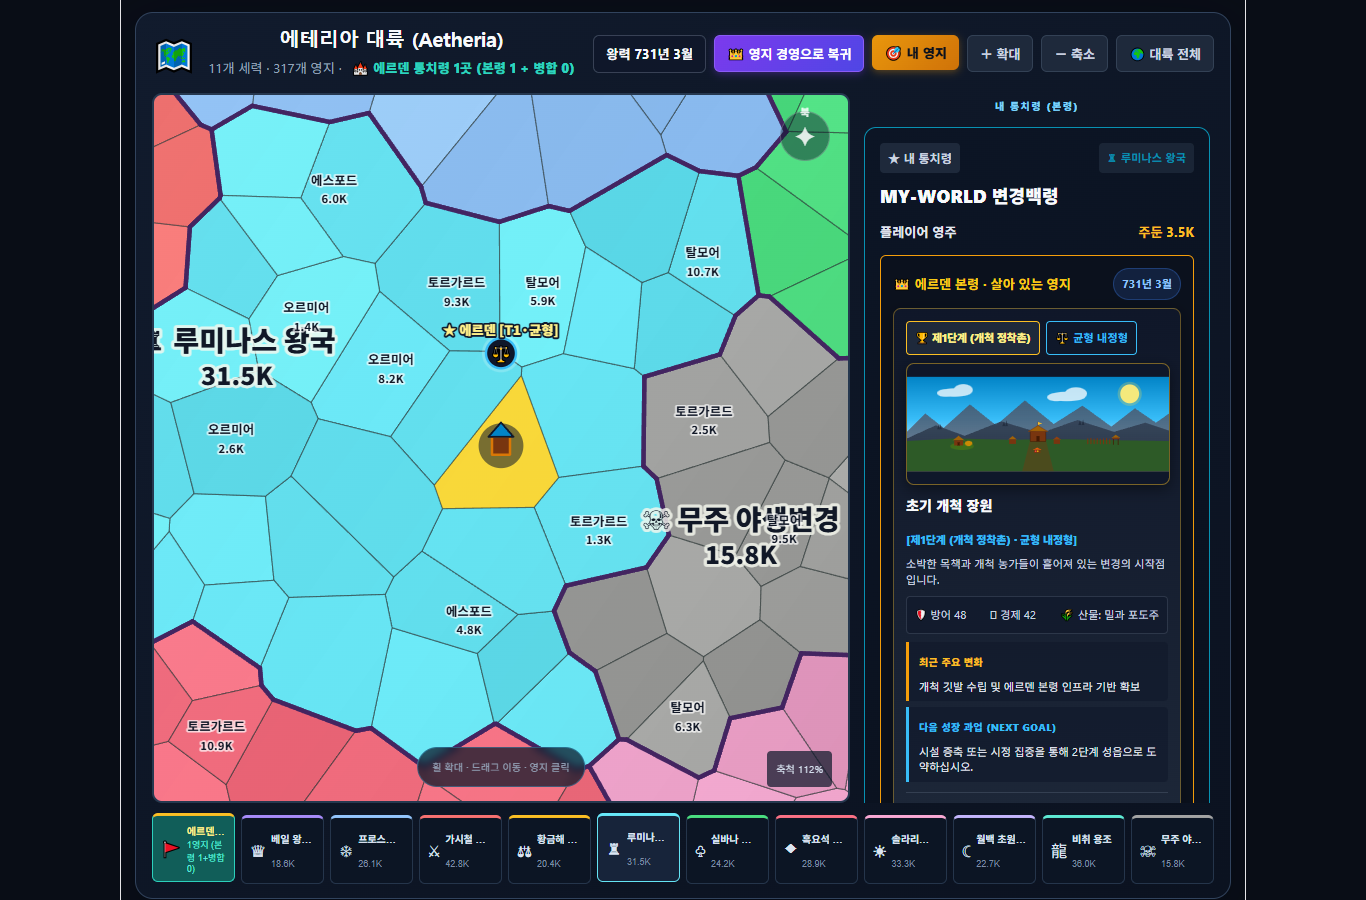
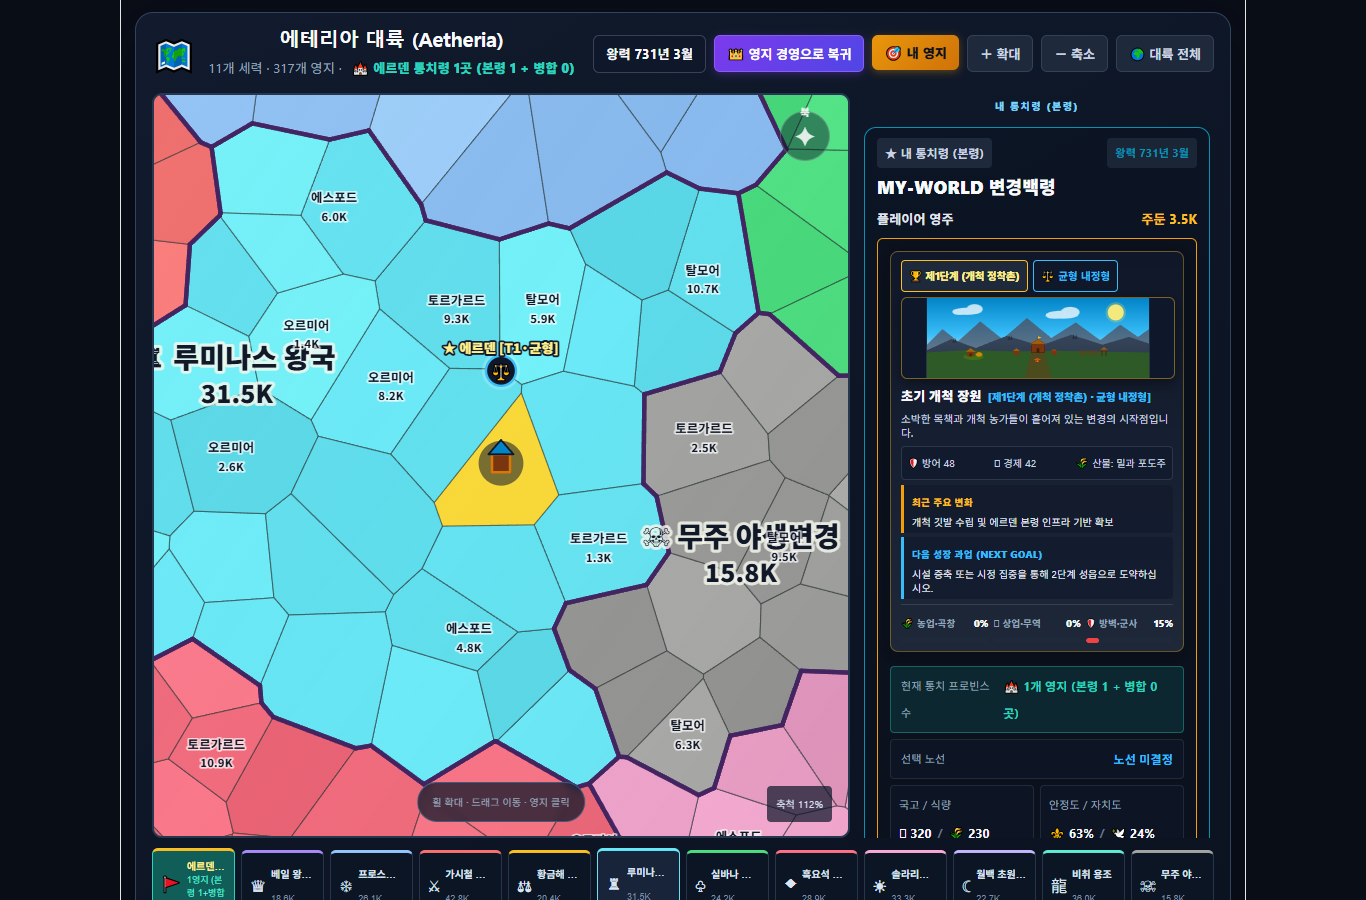
fix(map): compact inspector panel layout and assert unclipped NEXT GOAL card on 1366x900

diff --git a/src/App.css b/src/App.css
@@ -2042,8 +2042,8 @@ body {
 }
 
 .map-canvas-container {
-  height: min(740px, calc(100vh - 190px));
-  min-height: 590px;
+  height: min(760px, calc(100vh - 155px));
+  min-height: 600px;
   background: #2c557f;
   border: 2px solid #26384f;
   border-radius: 10px;
@@ -2054,8 +2054,8 @@ body {
 .map-inspector-panel {
   box-sizing: border-box;
   width: 100%;
-  max-height: min(740px, calc(100vh - 190px));
-  min-height: 590px;
+  max-height: min(760px, calc(100vh - 155px));
+  min-height: 600px;
   padding-right: 4px;
   overflow-y: auto;
   display: flex;
@@ -2130,8 +2130,8 @@ body {
 .fief-detail-card,
 .nation-detail-card {
   background: linear-gradient(150deg, #0c1525 0%, #090f1b 100%);
-  padding: 15px;
-  gap: 10px;
+  padding: 10px 12px;
+  gap: 6px;
 }
 
 .ruler-line {
@@ -6098,26 +6098,26 @@ body {
   background: linear-gradient(180deg, rgba(15, 23, 42, 0.95) 0%, rgba(30, 41, 59, 0.95) 100%);
   border: 1px solid rgba(251, 191, 36, 0.35);
   border-radius: 8px;
-  padding: 12px;
-  margin-bottom: 12px;
+  padding: 8px 10px;
+  margin-bottom: 6px;
   box-shadow: 0 4px 16px rgba(0, 0, 0, 0.3);
 }
 
 .living-realm-badge-row {
   display: flex;
   flex-wrap: wrap;
-  gap: 6px;
+  gap: 5px;
   align-items: center;
-  margin-bottom: 8px;
+  margin-bottom: 5px;
 }
 
 .living-tier-badge {
   background: #1e293b;
   border: 1px solid #fbbf24;
   color: #fef08a;
-  padding: 3px 8px;
+  padding: 2px 7px;
   border-radius: 4px;
-  font-size: 11px;
+  font-size: 10.5px;
   font-weight: 800;
   letter-spacing: -0.02em;
   white-space: nowrap;
@@ -6127,9 +6127,9 @@ body {
   background: rgba(15, 23, 42, 0.85);
   border: 1px solid #38bdf8;
   color: #38bdf8;
-  padding: 3px 8px;
+  padding: 2px 7px;
   border-radius: 4px;
-  font-size: 11px;
+  font-size: 10.5px;
   font-weight: 700;
   white-space: nowrap;
 }
@@ -6138,9 +6138,9 @@ body {
   background: rgba(185, 28, 28, 0.25);
   border: 1px solid #ef4444;
   color: #fca5a5;
-  padding: 3px 8px;
+  padding: 2px 7px;
   border-radius: 4px;
-  font-size: 11px;
+  font-size: 10.5px;
   font-weight: 800;
   white-space: nowrap;
   animation: pulse-border 2s infinite;
@@ -6149,20 +6149,20 @@ body {
 .living-fief-stage-callout {
   display: flex;
   align-items: baseline;
-  gap: 8px;
+  gap: 6px;
   flex-wrap: wrap;
-  margin: 6px 0 3px;
+  margin: 4px 0 2px;
 }
 
 .living-fief-subheading {
-  font-size: 14px;
+  font-size: 13px;
   font-weight: 800;
   color: #f8fafc;
   margin: 0;
 }
 
 .living-fief-spec-tag {
-  font-size: 11px;
+  font-size: 10.5px;
   font-weight: 800;
   letter-spacing: -0.01em;
 }
@@ -6174,25 +6174,25 @@ body {
   background: rgba(15, 23, 42, 0.6);
   border: 1px solid rgba(148, 163, 184, 0.2);
   border-radius: 4px;
-  padding: 5px 8px;
-  font-size: 11px;
+  padding: 3px 6px;
+  font-size: 10px;
   color: #cbd5e1;
-  margin: 6px 0 8px;
+  margin: 3px 0 5px;
 }
 
 .living-fief-summary-p {
-  font-size: 11px;
-  line-height: 1.45;
+  font-size: 10.5px;
+  line-height: 1.35;
   color: #cbd5e1;
-  margin: 0 0 8px 0;
+  margin: 0 0 5px 0;
 }
 
 .living-milestone-box {
   background: rgba(15, 23, 42, 0.6);
   border-left: 3px solid #f59e0b;
-  padding: 7px 10px;
+  padding: 4px 8px;
   border-radius: 0 4px 4px 0;
-  margin-bottom: 6px;
+  margin-bottom: 4px;
 }
 
 .living-milestone-box.target-box {
@@ -6201,11 +6201,11 @@ body {
 
 .milestone-label-row {
   display: flex;
-  margin-bottom: 3px;
+  margin-bottom: 1px;
 }
 
 .milestone-tag {
-  font-size: 10px;
+  font-size: 9.5px;
   font-weight: 800;
   text-transform: uppercase;
   letter-spacing: 0.04em;
@@ -6220,8 +6220,8 @@ body {
 }
 
 .milestone-text {
-  font-size: 11px;
-  line-height: 1.45;
+  font-size: 10px;
+  line-height: 1.35;
   color: #e2e8f0;
   margin: 0;
 }
@@ -6229,22 +6229,22 @@ body {
 .living-sectors-grid {
   display: grid;
   grid-template-columns: repeat(3, 1fr);
-  gap: 6px;
-  margin-top: 10px;
-  padding-top: 8px;
+  gap: 5px;
+  margin-top: 5px;
+  padding-top: 5px;
   border-top: 1px solid rgba(148, 163, 184, 0.2);
 }
 
 .sector-gauge-col {
   display: flex;
   flex-direction: column;
-  gap: 3px;
+  gap: 2px;
 }
 
 .sector-gauge-header {
   display: flex;
   justify-content: space-between;
-  font-size: 10px;
+  font-size: 9.5px;
   color: #94a3b8;
   font-weight: 700;
 }
@@ -6254,7 +6254,7 @@ body {
 }
 
 .sector-track {
-  height: 6px;
+  height: 5px;
   background: rgba(30, 41, 59, 0.9);
   border-radius: 3px;
   overflow: hidden;
@@ -6445,12 +6445,12 @@ body {
 /* Map Panel Mini-Diorama Frame (Synchronized with Map View) */
 .living-fief-diorama-frame {
   width: 100%;
-  height: 120px;
+  height: 80px;
   aspect-ratio: 1000 / 360;
-  border-radius: 8px;
+  border-radius: 6px;
   overflow: hidden;
   border: 1px solid rgba(251, 191, 36, 0.45);
-  margin: 8px 0;
+  margin: 4px 0;
   box-shadow: 0 4px 14px rgba(0, 0, 0, 0.45);
   background: #0f172a;
 }

diff --git a/src/components/WorldMapView.tsx b/src/components/WorldMapView.tsx
@@ -686,10 +686,10 @@ export const WorldMapView: React.FC<WorldMapViewProps> = ({ realm, onReturnToTow
           <div className="fief-detail-card" style={{ borderColor: isSelectedAnnexed ? '#fbbf24' : selectedNation.borderHighlightColor }}>
             <div className="inspector-header">
               <span className={`inspector-badge ${isSelectedAnnexed ? 'badge-annexed' : ''}`}>
-                {selectedProvince.isPlayerFief ? '★ 내 통치령' : isSelectedAnnexed ? '🚩 에르덴 병합령' : selectedNation.typeLabel}
+                {selectedProvince.isPlayerFief ? '★ 내 통치령 (본령)' : isSelectedAnnexed ? '🚩 에르덴 병합령' : selectedNation.typeLabel}
               </span>
               <span className="nation-tag" style={{ color: isSelectedAnnexed ? '#fbbf24' : selectedNation.borderHighlightColor }}>
-                {isSelectedAnnexed ? '🚩 에르덴 통치령' : `${selectedNation.emblem} ${selectedNation.name}`}
+                {selectedProvince.isPlayerFief ? `왕력 ${realmState.year}년 ${realmState.month}월` : (isSelectedAnnexed ? '🚩 에르덴 통치령' : `${selectedNation.emblem} ${selectedNation.name}`)}
               </span>
             </div>
             <h3 className="fief-title">
@@ -714,11 +714,6 @@ export const WorldMapView: React.FC<WorldMapViewProps> = ({ realm, onReturnToTow
             </div>
             {selectedProvince.isPlayerFief ? (
               <div className="player-live-box">
-                <div className="player-live-top-row">
-                  <h4>👑 에르덴 본령 · 살아 있는 영지</h4>
-                  <span className="player-live-date">{realmState.year}년 {realmState.month}월</span>
-                </div>
-
                 {/* Living Realm Growth Card */}
                 <div className="living-realm-summary-card">
                   <div className="living-realm-badge-row">
@@ -761,7 +756,7 @@ export const WorldMapView: React.FC<WorldMapViewProps> = ({ realm, onReturnToTow
                     <p className="milestone-text">{growthAnalysis.recentMilestone}</p>
                   </div>
 
-                  <div className="living-milestone-box target-box">
+                  <div className="living-milestone-box target-box living-next-goal-box">
                     <div className="milestone-label-row">
                       <span className="milestone-tag tag-target">다음 성장 과업 (Next Goal)</span>
                     </div>

diff --git a/scripts/verify-browser-milestone11.ts b/scripts/verify-browser-milestone11.ts
@@ -57,7 +57,7 @@ async function advanceOneMonth(page: Page) {
 /**
  * Capture World Map view of Erden fief and its inspector panel
  */
-async function captureErdenMap(page: Page, savePath: string) {
+async function captureErdenMap(page: Page, savePath: string, assertUnclippedNextGoal: boolean = true) {
   await page.click('button.realm-map-link, button.btn-panorama-map')
   await page.waitForSelector('.world-canvas')
   await page.waitForTimeout(500) // canvas render stabilization
@@ -73,6 +73,30 @@ async function captureErdenMap(page: Page, savePath: string) {
       await legendBtn.click()
       await page.waitForTimeout(400)
     }
+  }
+
+  // Strict Director Acceptance Criteria:
+  // Assert NEXT GOAL card is 100% visible inside the un-scrolled inspector panel viewport
+  if (assertUnclippedNextGoal) {
+    const panelLocator = page.locator('.map-inspector-panel')
+    const nextGoalLocator = page.locator('.living-next-goal-box')
+    await panelLocator.waitFor({ state: 'visible' })
+    await nextGoalLocator.waitFor({ state: 'visible' })
+
+    const panelBox = await panelLocator.boundingBox()
+    const nextGoalBox = await nextGoalLocator.boundingBox()
+    if (!panelBox || !nextGoalBox) {
+      throw new Error('.map-inspector-panel 또는 .living-next-goal-box bounding box를 계산할 수 없습니다.')
+    }
+
+    const panelBottom = panelBox.y + panelBox.height
+    const nextGoalBottom = nextGoalBox.y + nextGoalBox.height
+    console.log(`    [가시성 단언] 패널 바닥: ${panelBottom.toFixed(1)}px, NEXT GOAL 바닥: ${nextGoalBottom.toFixed(1)}px (여유 마진: ${(panelBottom - nextGoalBottom).toFixed(1)}px)`)
+
+    if (nextGoalBottom > panelBottom) {
+      throw new Error(`[결함 단언 실패] NEXT GOAL 카드가 인스펙터 패널 바닥을 초과하여 잘렸습니다! nextGoalBottom(${nextGoalBottom}) > panelBottom(${panelBottom})`)
+    }
+    console.log('    ✓ 스크롤 없이 .living-next-goal-box 카드가 .map-inspector-panel 가시 영역 내 온전히 위치함 단언 통과')
   }
 
   await page.screenshot({ path: savePath })
